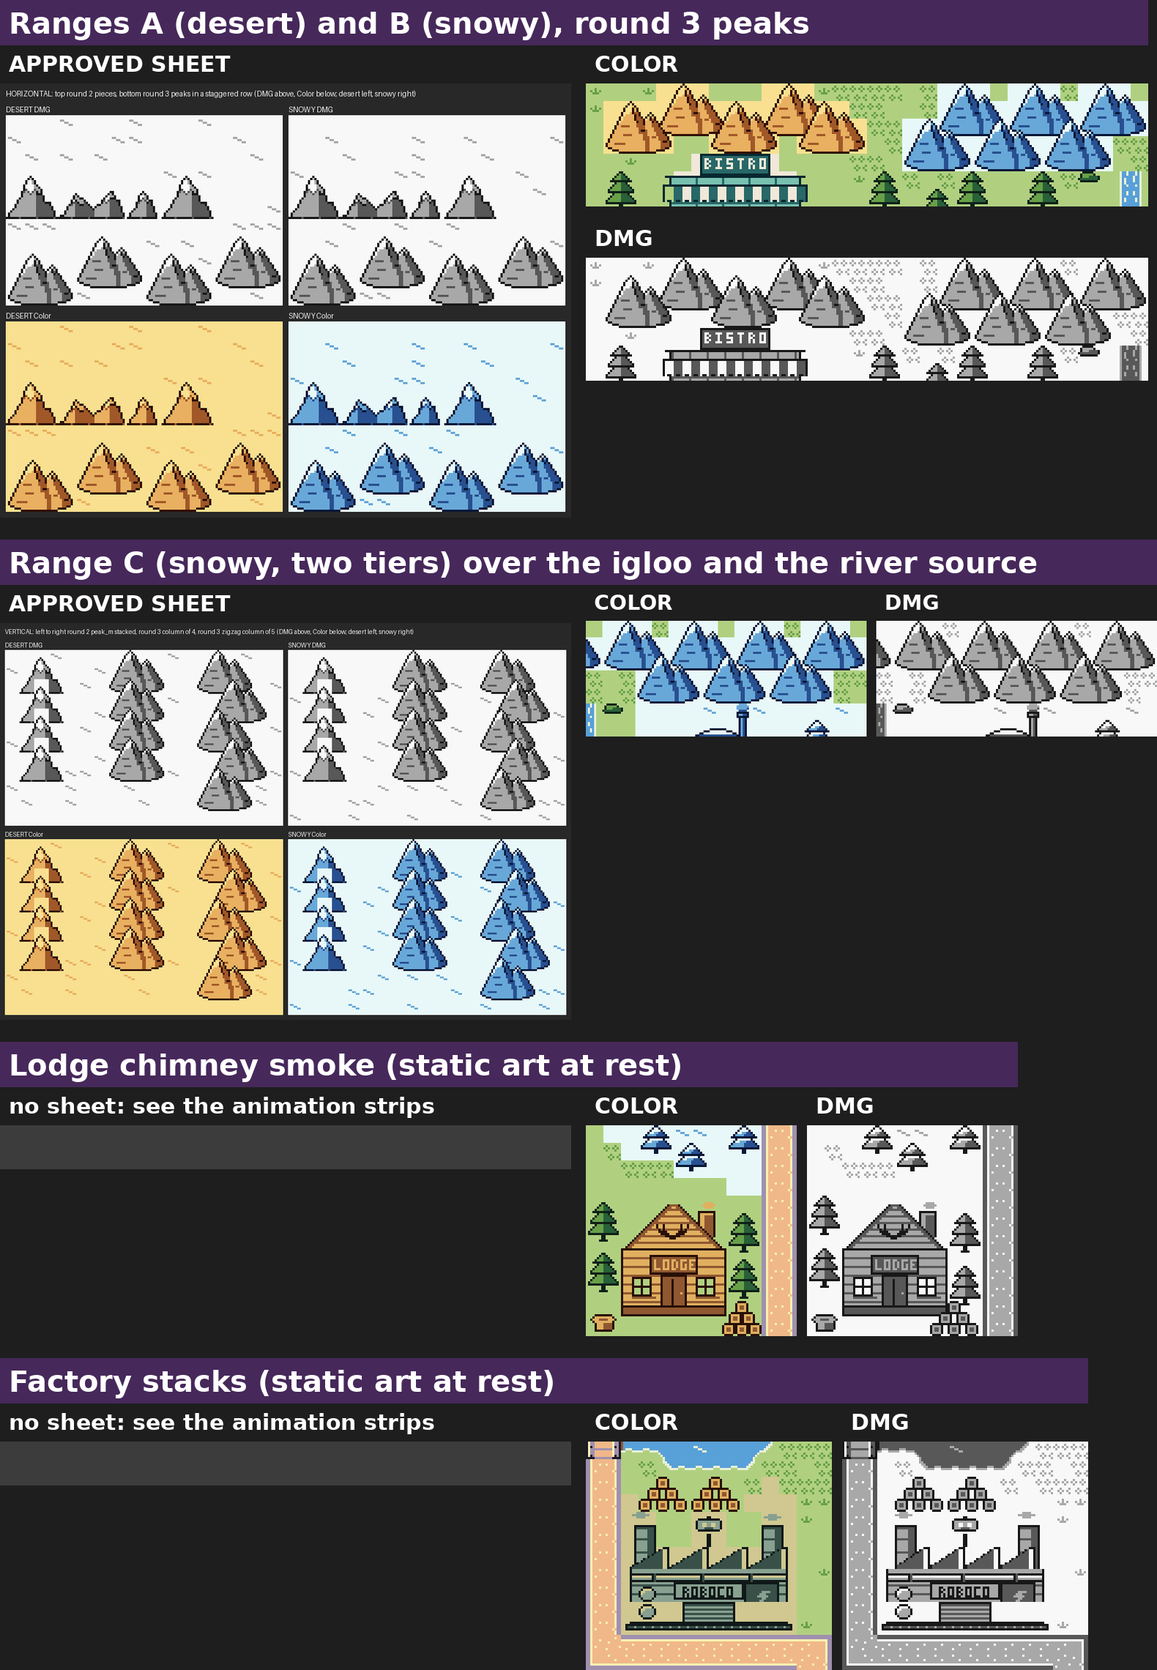
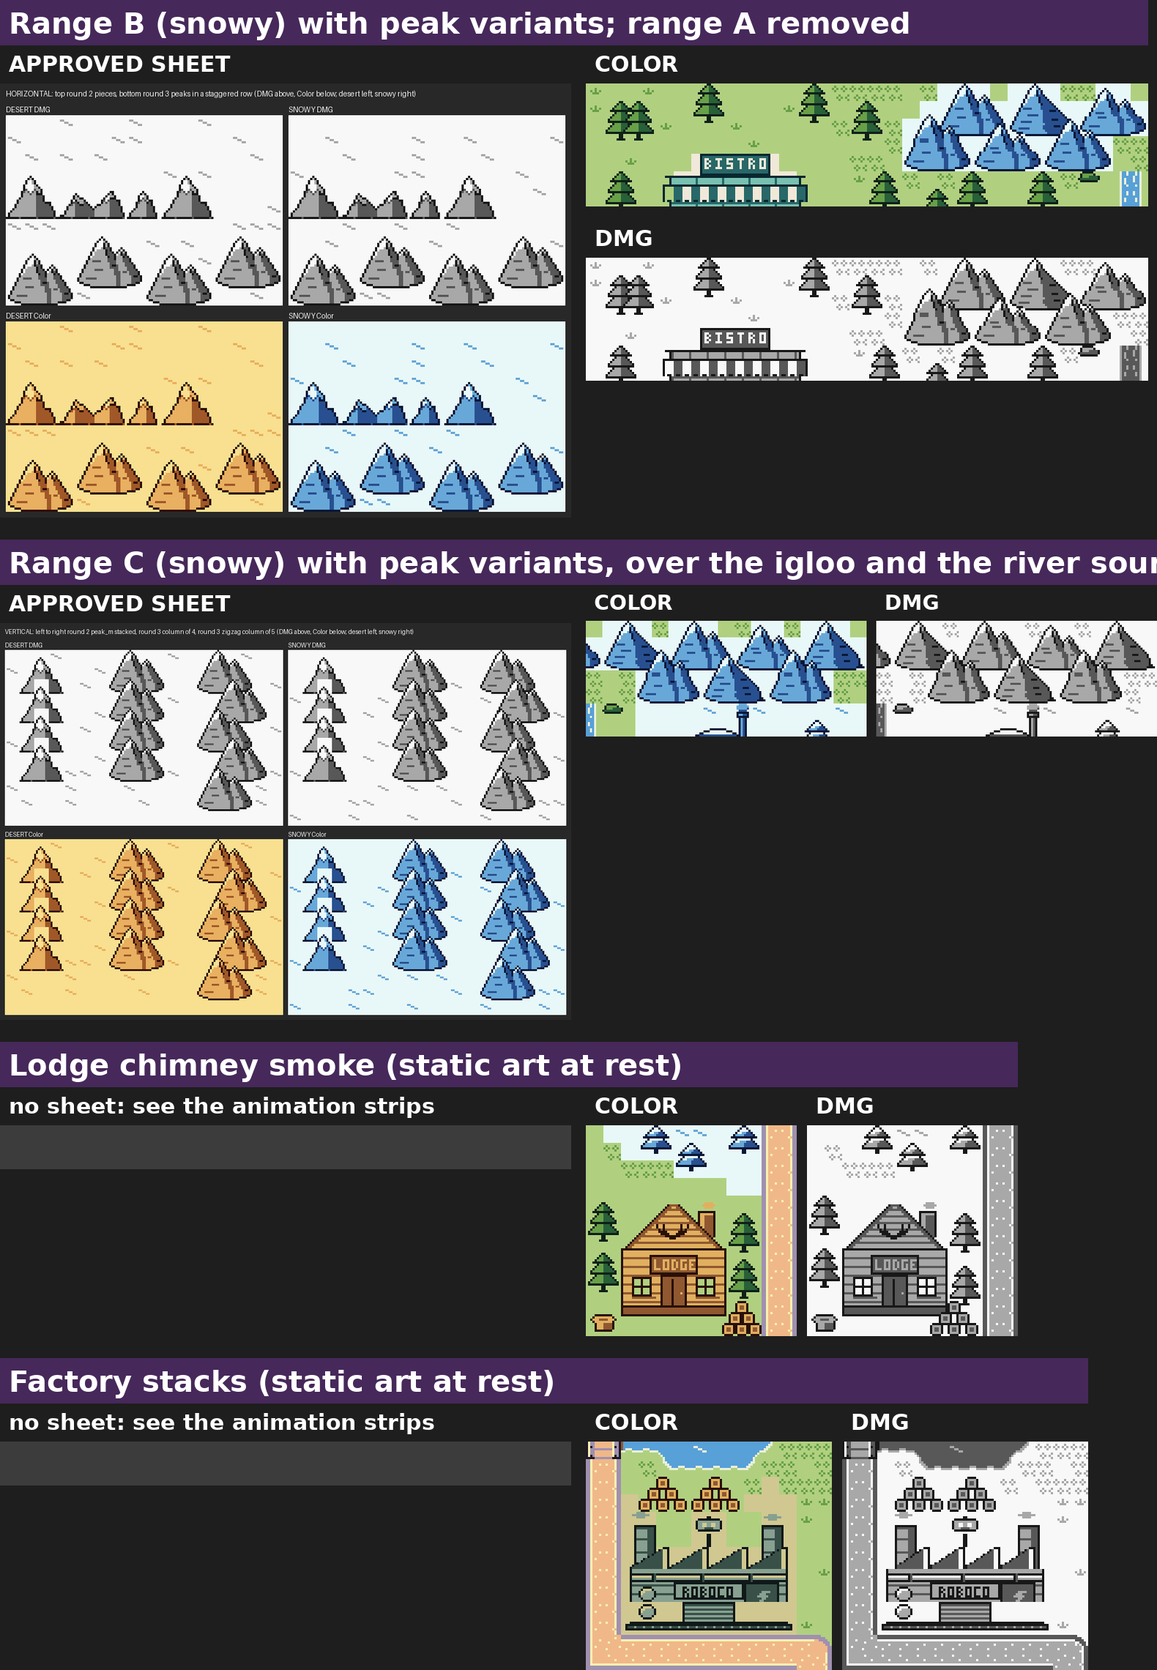
Story map import stage 1c: rounded road corners, range A removed, peak variants
Proposal only (docs/dev/proposals/smap_import); no src/ or assets/ change, no goldens touched.
- Road corners rounded (18 of 24; 6 stay square: 3 palette-limited, 3 hold art), hand-typed.
- Range A above the bistro removed; grass and pines instead.
- Ranges B and C use four mixed peak variants.
- Numbers: DMG 796/797/791 tiles, Color 854/854/849, worst view 143/152, 0 windows over 8 palettes, table 20.
- New sheets: sheet_1c_corners.png, sheet_1c_ranges.png; whole map and piece sheets re-rendered.

Claude-Session: https://claude.ai/code/session_01WXumg9pvGTKbXyU3qBciuY

diff --git a/docs/dev/proposals/smap_import/roads_round.py b/docs/dev/proposals/smap_import/roads_round.py
@@ -1,0 +1,120 @@
+"""Rounded road corners (stage 1c, owner: "Round the corners on the road").  Hand-typed pieces; nothing here decides a pixel except by looking up my typed rows.
+
+The road is 16 px wide: 2 px kerb (lilac, index 2), 1 px light line (index 0), body (index 1, a few index 0 specks).  Its straight tiles are tools/smap_world/tiles.py ROAD.
+Letters below: g ground (outside the road), k kerb, l light line, b body, o body speck.  DMG value = index: g 0, k 2, l 0, b 1, o 0.
+
+OUTER corner (a road cell with two open sides): the outer kerb edge is a quarter arc of radius 8 over the corner cell, the kerb stays 2 px thick, the line follows, the body fills inside.
+The cell now shows ground in its outer corner (13 px), so on Color it takes a palette that has the ground colour as index 0 and keeps the road's cream line:
+  ROADG = [map grass, road body, road kerb, road cream]: the line and specks are index 3 in the COLOR data, index 0 in the DMG data (the two data sets are separate; the DMG value is what
+  the generator counts).  Two corners sit beside snow / town cobble, not grass: there the cell keeps the road palette TOWN1 (cream is index 0: ground pixels read cream, line cream).
+
+INNER corner (a road cell with all four sides open but one diagonal missing: the ground block's corner pokes into the road): the ground block's corner is rounded with radius 6, the kerb
+following it, the light line and body re-cut round it.  The change spans the notch's four cells; only the ground cell takes a new palette (TOWN1@g, or TOWN1 where the ground is sand,
+snow, earth or zoo green): it holds only ground and kerb pixels.  Typed once for the case where the ground cell is diagonal south-east of the junction cell, mirrored for the other three."""
+import sys
+
+OUT_NW = [
+    "gggggkkk",
+    "gggkkkkk",
+    "ggkkkkll",
+    "gkkkllbb",
+    "gkklbobb",
+    "kklbbbbb",
+    "kklbbbbb",
+    "kklobbbb",
+]
+
+# the INNER patch for "ground cell south-east of the junction cell": columns x -4..5, rows y -3..5 relative to the ground cell's top left (x 0 y 0)
+IN_SE = {
+    -3: "bbbbbbblll",
+    -2: "bbbbbllkkk",
+    -1: "bbbblkkkkk",
+    0: "bbblkkkkgg",
+    1: "bblkkkgggg",
+    2: "bblkkggggg",
+    3: "blkkgggggg",
+    4: "blkkgggggg",
+    5: "blkkgggggg",
+}
+IN_X0 = -4
+
+
+def flip_x(rows):
+    return [r[::-1] for r in rows]
+
+
+def flip_y(rows):
+    return rows[::-1]
+
+
+OUTER = {"NW": OUT_NW, "NE": flip_x(OUT_NW), "SW": flip_y(OUT_NW), "SE": flip_y(flip_x(OUT_NW))}
+GROUND_G = {"grass", "farm", "cow", "lodge"}            # inner ground cells that take TOWN1@g (ground colour near the map grass)
+TOWN1_OUTER = {(63, 11), (37, 28)}
+SKIP_INNER = {(52, 44), (61, 27), (61, 47)}               # ground cells that hold picture art (factory yard, lodge, the cow pen fence): their palette cannot change, so these three inner corners stay square                        # outer corners beside snow and town cobble: TOWN1
+
+
+def classify(roads):
+    outer, inner = [], []
+    for (cx, cy) in sorted(roads):
+        n, e, s, w = ((cx, cy - 1) in roads, (cx + 1, cy) in roads, (cx, cy + 1) in roads, (cx - 1, cy) in roads)
+        if not n and not w:
+            outer.append((cx, cy, "NW"))
+        elif not n and not e:
+            outer.append((cx, cy, "NE"))
+        elif not s and not w:
+            outer.append((cx, cy, "SW"))
+        elif not s and not e:
+            outer.append((cx, cy, "SE"))
+        elif n and e and s and w:
+            for k, (dx, dy) in {"nw": (-1, -1), "ne": (1, -1), "se": (1, 1), "sw": (-1, 1)}.items():
+                if (cx + dx, cy + dy) not in roads:
+                    inner.append((cx, cy, k))
+    return outer, inner
+
+
+import os
+# corners left square: the windows round the south middle junction already hold 8 palettes (base, grass, saloon, tea, tea@g, town1, water, zoo), a rounded corner needs TOWN1@g as a ninth
+PALETTE_LIMITED = {(35, 44), (37, 46), (50, 46)}          # inner ground cell (35,44), outer corners (37,46) and (50,46)
+EXCL = PALETTE_LIMITED | {tuple(int(v) for v in t.split(",")) for t in os.environ.get("SMAP_ROUND_EXCL", "").split(";") if t}
+
+
+def apply(W, PAL):
+    """edits W.WORLD (Color) and W.WORLD_DMG in place; returns the list of cells it changed (for the report)"""
+    roads = W.WORLD.roads
+    outer, inner = classify(roads)
+    changed = []
+    for (cx, cy, k) in outer:
+        if (cx, cy) in EXCL:
+            continue
+        rows = OUTER[k]
+        for w, color in ((W.WORLD, True), (W.WORLD_DMG, False)):
+            for y in range(8):
+                for x in range(8):
+                    ch = rows[y][x]
+                    v = {"g": 0, "k": 2, "b": 1}.get(ch)
+                    if v is None:                                   # l, o: the light line and the specks
+                        v = 1 if (color and (cx, cy) not in TOWN1_OUTER) else 0      # Color on TOWN1@g: no cream available (index 3 is ink), the line is left out of the corner curve
+                    w.px[cy * 8 + y][cx * 8 + x] = v
+            if color:
+                w.pal[cy][cx] = "town1" if (cx, cy) in TOWN1_OUTER else "town1@g"
+        changed.append((cx, cy, "outer " + k))
+    for (jx, jy, k) in inner:
+        gx, gy = jx + (1 if "e" in k else -1), jy + (1 if "s" in k else -1)         # the ground cell diagonal to the junction cell
+        if (gx, gy) in SKIP_INNER or (gx, gy) in EXCL:
+            changed.append((gx, gy, "inner corner NOT rounded (ground cell holds art)"))
+            continue
+        for w, color in ((W.WORLD, True), (W.WORLD_DMG, False)):
+            ox, oy = gx * 8, gy * 8
+            for y in range(8):                                                     # the ground cell will hold only ground and kerb: its tuft pixels go (their index would change colour)
+                for x in range(8):
+                    w.px[oy + y][ox + x] = 0
+            for y, row in IN_SE.items():
+                for i, ch in enumerate(row):
+                    x = IN_X0 + i
+                    ax = ox + x if "e" in k else ox + 7 - x
+                    ay = oy + y if "s" in k else oy + 7 - y
+                    w.px[ay][ax] = {"g": 0, "k": 2, "l": 0, "b": 1}[ch]
+        gp = W.WORLD.pal[gy][gx]
+        W.WORLD.pal[gy][gx] = "town1@g" if gp in GROUND_G else "town1"
+        changed.append((gx, gy, "inner ground cell (junction %d,%d %s) %s -> %s" % (jx, jy, k, gp, W.WORLD.pal[gy][gx])))
+    return changed

diff --git a/docs/dev/proposals/smap_import/renders.py b/docs/dev/proposals/smap_import/renders.py
@@ -26,11 +26,16 @@ PIECES = [
     ("igloo", (47, 2, 64, 15), "smap_venue_redesign/igloo_sheet.png", "Igloo option 1: COCOA sign, chimney, penguin", False),
     ("airbase", (2, 31, 31, 46), "smap_hangar/hangar_sheet9.png", "Airbase 4i, jet nudged right (on the map at cell 4, 34)", False),
     ("milkbar", (46, 45, 64, 66), "smap_milkbar/milkbar_sheet14.png", "Milk bar: sign B raised + 4 px left, body on base, tea cell", False),
-    ("ranges_ab", (16, 0, 48, 7), "smap_venue_redesign3/range_horizontal_sheet.png", "Ranges A (desert) and B (snowy), round 3 peaks", False),
-    ("ranges_c", (47, 0, 64, 7), "smap_venue_redesign3/range_vertical_sheet.png", "Range C (snowy, two tiers) over the igloo and the river source", False),
+    ("ranges_ab", (16, 0, 48, 7), "smap_venue_redesign3/range_horizontal_sheet.png", "Range B (snowy) with peak variants; range A removed", False),
+    ("ranges_c", (47, 0, 64, 7), "smap_venue_redesign3/range_vertical_sheet.png", "Range C (snowy) with peak variants, over the igloo and the river source", False),
     ("lodge",(52, 16, 64, 28), None, "Lodge chimney smoke (static art at rest)", False),
     ("factory", (50, 34, 64, 47), None, "Factory stacks (static art at rest)", False),
 ]
+
+
+# stage 1c before | after close-ups: road corners (x4) and the ranges (x3); P_ files are the stage 1b state (env SMAP_BEFORE_1C=1)
+CORNER_BOXES = [(0, 10, 6, 16), (0, 27, 6, 33), (34, 26, 40, 32), (58, 9, 64, 15), (48, 26, 54, 32), (58, 44, 64, 50)]
+RANGE_BOXES = [(16, 0, 48, 7), (47, 0, 64, 7)]
 
 
 def crops(tag, out):
@@ -43,6 +48,10 @@ def crops(tag, out):
         M.render(cgb, scale=2).save(out / f"{tag}_whole_{n}.png")
         for key, box, _, _, _ in PIECES:
             M.render(cgb, box, scale=3).save(out / f"{tag}_{key}_{n}.png")
+        for i, box in enumerate(CORNER_BOXES):
+            M.render(cgb, box, scale=4).save(out / f"{tag}_corner{i}_{n}.png")
+        for i, box in enumerate(RANGE_BOXES):
+            M.render(cgb, box, scale=3).save(out / f"{tag}_range{i}_{n}.png")
 
 
 def font(n):
@@ -88,9 +97,36 @@ def stack_v(ims, gap=18, bg=(30, 30, 30)):
     return o
 
 
+def sheet_1c(out):
+    """before | after for the stage 1c changes: road corners x4 and the ranges x3 (two columns, big labels)"""
+    out = Path(out)
+    L = lambda f: Image.open(out / f).convert("RGB")
+    sheets = []
+    # corners: 3 boxes per row, Color over DMG
+    for r in range(2):
+        cols = []
+        for tag, name in (("P", "BEFORE"), ("A", "AFTER")):
+            cells = []
+            for i in range(3 * r, 3 * r + 3):
+                cells.append(stack_v([L(f"{tag}_corner{i}_color.png"), L(f"{tag}_corner{i}_dmg.png")], gap=8))
+            cols.append(label(stack_h(cells, gap=10), name + " x4", 34))
+        sheets.append(label(stack_h(cols, gap=24), "Road corners" + ("" if r == 0 else " (2)"), 40, bg=(70, 40, 90)))
+    stack_v(sheets, gap=30).save(out / "sheet_1c_corners.png")
+    # ranges: before | after, Color over DMG
+    rows = []
+    for i, name in enumerate(("Range B", "Range C")):
+        cols = []
+        for tag, nm in (("P", "BEFORE"), ("A", "AFTER")):
+            cols.append(label(stack_v([L(f"{tag}_range{i}_color.png"), L(f"{tag}_range{i}_dmg.png")], gap=8), nm + " x3", 34))
+        rows.append(label(stack_h(cols, gap=24), name if i else "Ranges: A removed, B with peak variants", 40, bg=(70, 40, 90)))
+    stack_v(rows, gap=30).save(out / "sheet_1c_ranges.png")
+
+
 def sheet(out):
     out = Path(out)
     L = lambda f: Image.open(out / f).convert("RGB")
+    if (out / "P_corner0_color.png").exists():
+        sheet_1c(out)
     # ---- whole map: three renders, x2 each, labelled ----
     ims = [label(L("A_whole_color.png"), "COLOR", 44), label(L("A_whole_dmg.png"), "DMG DARK WATER", 44), label(L("B_whole_dmg.png"), "DMG LIGHT WATER", 44)]
     stack_v([stack_h(ims[:2]), ims[2]]).save(out / "sheet_whole_map.png")

diff --git a/docs/dev/proposals/smap_import/range_peaks.py b/docs/dev/proposals/smap_import/range_peaks.py
@@ -1,0 +1,64 @@
+"""Peak variants for the ranges (stage 1c, owner: "a little bit of variation in mountain tiles").  The approved round 3 peak (smap_venue_redesign3/src/mtn_vert.py, 32 x 24, two summits,
+lit left, shaded right, ink outline, '0' caps / '1' lit / '2' shaded / '3' ink) stays as variant A.  Same style, palette and light for the others; all typed here.
+
+B  single summit: the approved main summit and cap rows, then one long shaded slope down to the right (no second summit); 24 rows, strata dashes and dark marks typed.
+C  shorter: the approved peak with its two lit-face rows 13 and 14 left out (22 rows): a squatter double summit.
+D  taller: the approved peak with its lit-face rows 11 and 12 repeated (26 rows): a steeper double summit.
+Rows are copied from my own typed approved rows (C, D) or typed new (B); the stack places each peak with its foot on the tier's base line."""
+import mtn_vert as V
+
+A = V.PEAK
+D = "."
+
+
+def _rows_b():
+    r = []
+    r.append(D * 12 + "3")
+    r.append(D * 11 + "303")
+    r.append(D * 10 + "30013")
+    r.append(D * 9 + "3000313")
+    r.append(D * 9 + "3000313")
+    r.append(D * 8 + "300013223")
+    r.append(D * 8 + "3011113223")
+    r.append(D * 7 + "301111132223")
+    r.append(D * 7 + "3011111322223")
+    r.append(D * 6 + "3" + "0" + "1" * 7 + "3" + "2222" + "3")
+    r.append(D * 6 + "3" + "1" * 8 + "2" * 6 + "3")
+    r.append(D * 5 + "3" + "1" * 9 + "2" * 7 + "3")
+    r.append(D * 5 + "3" + "1" * 10 + "2" * 7 + "3")
+    r.append(D * 4 + "3" + "1" * 11 + "2" * 8 + "3")
+    r.append(D * 4 + "3" + "1" * 11 + "2" * 9 + "3")
+    r.append(D * 3 + "3" + "1" * 12 + "2" * 10 + "3")
+    r.append(D * 3 + "3" + "1" * 12 + "2" * 11 + "3")
+    r.append(D * 2 + "3" + "1" * 13 + "2" * 11 + "3")
+    r.append(D * 2 + "3" + "1" * 14 + "2" * 11 + "3")
+    r.append(D * 1 + "3" + "1" * 14 + "2" * 12 + "3")
+    r.append(D * 1 + "3" + "1" * 14 + "2" * 12 + "3")
+    r.append(D * 2 + "33" + "1" * 13 + "2" * 11 + "33")
+    r.append(D * 4 + "333" + "1" * 11 + "2" * 9 + "3333")
+    r.append(D * 8 + "3" * 19)
+    g = []
+    for i, s in enumerate(r):
+        s = s + D * (32 - len(s))
+        assert len(s) == 32, (i, len(s))
+        g.append(list(s))
+    for (y, x0, x1, v) in [(11, 7, 10, "2"), (14, 9, 13, "2"), (17, 6, 10, "2"), (20, 5, 9, "2"),       # strata dashes on the lit face, each in a different column range
+                           (12, 19, 21, "3"), (16, 20, 22, "3"), (19, 21, 23, "3")]:                    # dark marks on the shaded face
+        for x in range(x0, x1 + 1):
+            assert g[y][x] in "12", (y, x, g[y][x])
+            g[y][x] = v
+    return ["".join(s) for s in g]
+
+
+B = _rows_b()
+C = [row for i, row in enumerate(A) if i not in (13, 14)]                         # 22 rows
+Dv = A[:13] + [A[11], A[12]] + A[13:]                                              # 26 rows: A's rows 11 and 12 are repeated after row 12... (indices below)
+Dv = A[:12] + [A[11], A[12]] + A[12:]
+VARIANTS = {"A": A, "B": B, "C": C, "D": Dv}
+
+
+def paste_peak(c, x, ybase, key):
+    """paste variant `key` with its foot (last row) on pixel row ybase - 1 and its left edge at x"""
+    import common as K
+    rows = VARIANTS[key]
+    K.paste(c, x, ybase - len(rows), rows)

diff --git a/docs/dev/proposals/smap_import/dump_scenes.py b/docs/dev/proposals/smap_import/dump_scenes.py
@@ -14,7 +14,8 @@ kind = sys.argv[1]
 P = Path(__file__).resolve().parents[1]
 ROOT = P.parents[2]
 SRC = {"stadium": "smap_stadium", "igloo": "smap_venue_redesign", "mountain": "smap_hangar", "cow": "smap_milkbar",
-       "range_a": "smap_venue_redesign3", "range_b": "smap_venue_redesign3", "range_c": "smap_venue_redesign3"}[kind]
+       "range_a": "smap_venue_redesign3", "range_b": "smap_venue_redesign3", "range_c": "smap_venue_redesign3",
+       "range_b2": "smap_venue_redesign3", "range_c2": "smap_venue_redesign3"}[kind]
 sys.path.insert(0, str(ROOT / "tools/smap_world"))
 if kind == "cow":                                            # smap_milkbar/src/a5env.py hard-codes another worktree: stand in for it (it only sets the A5 import paths)
     import types
@@ -43,6 +44,20 @@ elif kind == "mountain":
     import sheet_h9 as M
     c = M.build("n")
     res.update(at=[9, 36], mode="all", w=c.w // 8, h=c.h // 8, frames=[cells(c)])
+elif kind in ("range_b2", "range_c2"):
+    # stage 1c: ranges B and C with peak variants (range_peaks.py: A approved, B single summit, C shorter, D taller), snowy; back tier foot on px row 24, front tier foot on row 40
+    sys.path.insert(0, str(Path(__file__).resolve().parent))
+    import mtn_vert as M
+    import range_peaks as RP
+    PLAN = {"range_b2": ((34, 0), 112, [(16, "A"), (48, "B"), (80, "C")], [(0, "D"), (32, "C"), (64, "A")]),
+            "range_c2": ((48, 0), 128, [(0, "B"), (32, "A"), (64, "C"), (96, "B")], [(16, "D"), (48, "B"), (80, "D")])}
+    at, w, back, front = PLAN[kind]
+    c = M.canvas(w, 40, kind, True)
+    for x, k in back:
+        RP.paste_peak(c, x, 24, k)
+    for x, k in front:
+        RP.paste_peak(c, x, 40, k)
+    res.update(at=list(at), mode="nonblank", w=c.w // 8, h=c.h // 8, frames=[cells(c)])
 elif kind.startswith("range_"):
     import mtn_vert as M
     # round 3 range peak (owner 11-06) composed for the A5 layout's three range areas (cells x, y; px w, h).  Peak places in px inside the area, pasted back (higher) to front (lower):

diff --git a/docs/dev/proposals/smap_import/mapctx.py b/docs/dev/proposals/smap_import/mapctx.py
@@ -33,6 +33,12 @@ import lay_A5 as lay  # noqa: E402
 
 lay.FIELDS = []
 lay.SCENERY = [s for s in lay.SCENERY if s[0] is not decor.HAY]
+BEFORE_1C = os.environ.get("SMAP_BEFORE_1C") == "1"         # the stage 1b state (square road corners, range A, uniform peaks): for the before | after renders
+if not BEFORE_1C:
+    # stage 1c: the round tree-bush at cell (2, 13) moves one cell east (its pixels sat in the ground cell the inner road corner at the stadium's gate road rounds into)
+    lay.SCENERY = [(p, 24, 104) if (p is decor.BUSH and x == 16 and y == 104) else (p, x, y) for (p, x, y) in lay.SCENERY]
+    # range A removed: its ground is the lawn round it; five of the map's own pines stand there, about the density of the lawn east of the bistro
+    lay.SCENERY = lay.SCENERY + [(decor.PINE, x * 8, y * 8) for (x, y) in [(18, 1), (22, 0), (25, 2), (28, 0), (31, 1)]]
 V = dict(lay.VENUES)
 for k in ("cow", "stadium", "igloo", "space"):
     V[k] = ("anim_stub", V[k][1])
@@ -111,12 +117,16 @@ g0 = PAL.RGB["grass"][0]
 PAL.RGB["stadium"] = [g0] + list(PAL.RGB["stadium"][1:])
 paste("stadium")
 PAL.RGB["park"] = [g0, PAL.RGB["grass"][1]] + list(PAL.RGB["park"][2:])
-for _n in ("igloo", "mountain", "cow", "range_a", "range_b", "range_c"):
+for _n in ("igloo", "mountain", "cow") + (("range_a", "range_b", "range_c") if BEFORE_1C else ("range_b2", "range_c2")):
     paste(_n)
 _ed = _load(PROP / "smap_stadium/src/edits.py", "stadium_edits")
 _ed.edit(W)
 _ed.edit_grass_cells(W)
 _step("stadium_edits")
+if not BEFORE_1C and os.environ.get("SMAP_NO_ROADS") != "1":
+    import roads_round
+    ROAD_CHANGES = roads_round.apply(W, PAL)               # rounded outer and inner corners of the road loops (hand-typed pieces in roads_round.py)
+    _step("road_corners")
 for w in WORLDS:                                            # milk bar: the tea house cell next to the lot's lawn joins tea@g (Color palette only, DMG pixels unchanged)
     w.pal[59][34] = "tea@g"
 _step("tea_cell")

diff --git a/docs/dev/proposals/smap_import/build.py b/docs/dev/proposals/smap_import/build.py
@@ -20,12 +20,12 @@ def run(args, env=None):
 
 run([ROOT / "docs/dev/proposals/smap_layout_a5/mk_src.py"])
 run([ROOT / "docs/dev/proposals/smap_layout_a5/mk_a5.py"], {"SMAP_LAYOUT": "lay_A5"})
-for k in ("stadium", "igloo", "mountain", "cow", "range_a", "range_b", "range_c"):
+for k in ("stadium", "igloo", "mountain", "cow", "range_a", "range_b", "range_c", "range_b2", "range_c2"):
     run([HERE / "dump_scenes.py", k, HERE / "scenes" / f"{k}.json"])
 for tag, env in (("dark", {}), ("light", {"SMAP_WATERDMG": "light"}), ("broken", {"SMAP_BROKEN": "1"})):
     (OUT / tag).mkdir(parents=True, exist_ok=True)
     run([HERE / "measure.py", OUT / tag], env)
-for tag, env in (("A", {}), ("B", {"SMAP_WATERDMG": "light"}), ("C", {"SMAP_BROKEN": "1"})):
+for tag, env in (("A", {}), ("B", {"SMAP_WATERDMG": "light"}), ("C", {"SMAP_BROKEN": "1"}), ("P", {"SMAP_BEFORE_1C": "1"})):
     run([HERE / "renders.py", "crops", tag, OUT / "r"], env)
 run([HERE / "renders.py", "sheet", OUT / "r"])
 run([HERE / "anim_run.py", OUT / "anim"])

diff --git a/docs/dev/proposals/smap_import/NOTES.md b/docs/dev/proposals/smap_import/NOTES.md
@@ -22,11 +22,11 @@ Tiles: DMG 749 (was 758 with the boxes), range pieces cost less than the boxes' 
 ## Numbers (A5 generator on the integrated map)
 | | DMG dark, fountain working | DMG light | DMG dark, fountain broken |
 |---|---|---|---|
-| DMG tiles, whole map | 749 | 750 | 744 |
+| DMG tiles, whole map | 796 | 797 | 791 |
 | worst 21x19 view (limit 176) | 143 at (39,8) | 143 | 143 |
 | worst 22x20 view | 152 at (38,7) | 152 | 152 |
 | flat tile uses in a 22x20 window (limit 239) | 238 | 238 | 238 |
-| Color tiles / slots | 806 / 352 | 806 / 352 | 801 / 352 |
+| Color tiles / slots | 854 / 352 | 854 / 352 | 849 / 352 |
 | palettes per 21x19 window (max 8) | 8, 0 windows over | 8, 0 | 8, 0 |
 | palettes in a 22x20 window (not a limit) | 9 | 9 | 9 |
 | palette table entries | 20 | 20 | 19 |
@@ -40,3 +40,12 @@ Generator: BUDGET OK, 0 cells snapped (it asserts every cell's palette is in the
 - The 22x20 palette count of 9 is the loaded region, not a screen; the generator does not check it. Stage 2 should confirm the engine only needs 8 for what is shown.
 - Igloo/road overlap and the flat-tile fix above are layout judgement calls.
 - Stage 2 not started; no engine files touched.
+
+## Stage 1c (owner: "Round the corners on the road. Also need a little bit of variation in mountain tiles. Don't need mountain above bistro.")
+- Road corners: 18 of 24 rounded, outer arc radius 8 with the kerb following it, inner ground corner radius 6; hand-typed NW tiles, other three by flips (roads_round.py). Outer cells use town1@g, ground cells town1 or town1@g: no new palette, table stays 20. Color curve has no cream line (a new palette broke the 8-per-window limit).
+- Left square: (35,44) (37,46) (50,46) (palette-limited windows) and (52,44) (61,27) (61,47) (cells holding art).
+- Range A removed; the ground is grass with five pines (same density). Bush (16,104) moved to (24,104).
+- Ranges B and C: four peak variants (approved peak, typed single summit, shorter, taller), mixed so no two neighbours match (range_peaks.py).
+- Numbers dark/light/broken: DMG tiles 796/797/791, Color 854/854/849 in 352 slots; worst 21x19 view 143, 22x20 view 152; palettes per window 8, 0 over; 22x20 region 9; table 20 (19 broken); flat uses 238. Cost: roads +17 tiles, ranges +30.
+- Doubts: 6 corners stay square; pale cream patches where the ground is sand/snow/zoo green; ranges B and C sit on snow-coloured ground.
+- Sheets: sheet_1c_corners.png, sheet_1c_ranges.png, sheet_whole_map.png.
